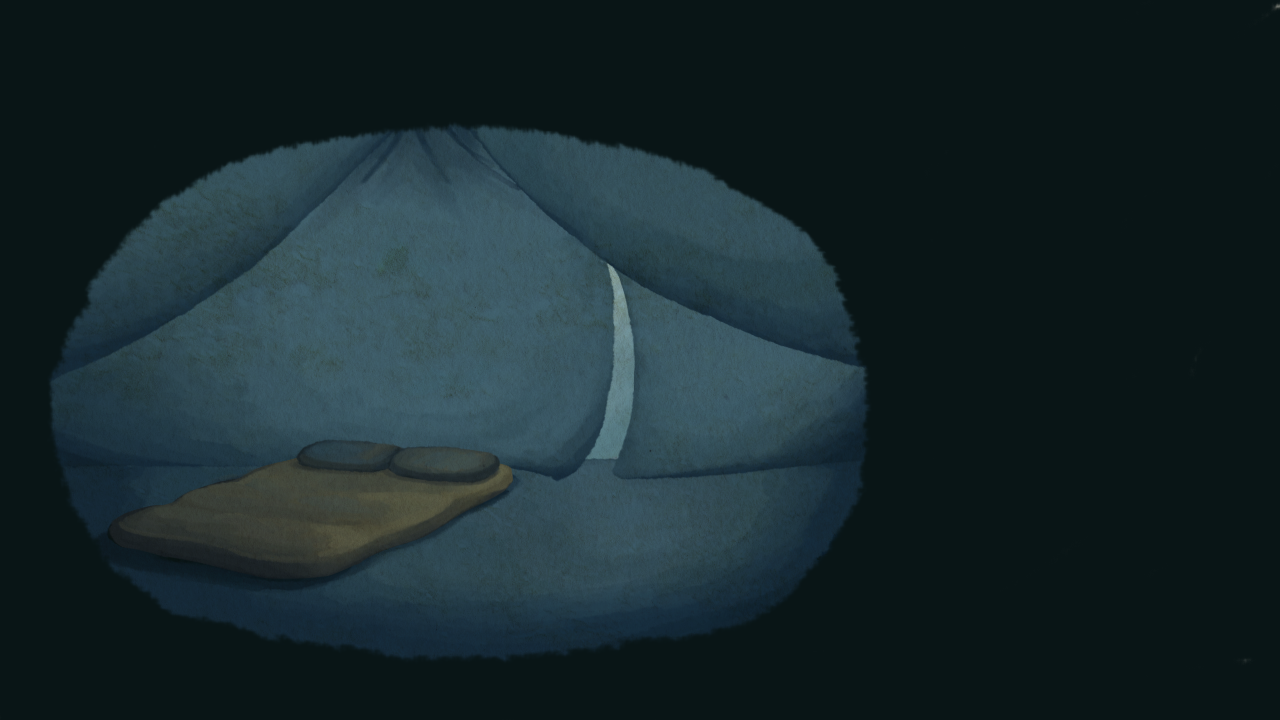
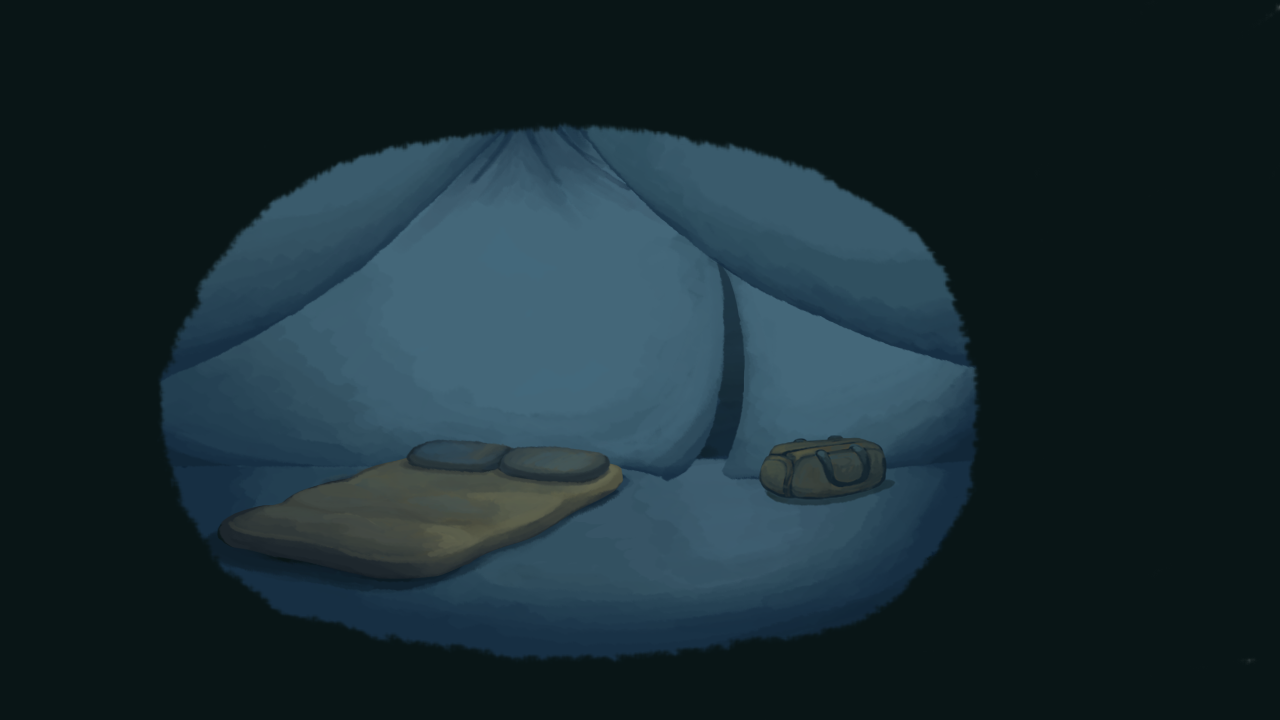
Added new collision and input rects to the tent map

Changed region(s): [[0.0312, 0.1528, 0.7812, 0.9167], [0.3438, 0.5194, 0.375, 0.55]]

diff --git a/src/States/MemoryState.cs b/src/States/MemoryState.cs
@@ -62,6 +62,9 @@ namespace GGJ2013.States
 		public string NextLevel;
 		public string LastLevel;
 
+		public string CurrentItem;
+		public string LastItem;
+
 		protected virtual void OnLevelStart(string LastScreen) { }
 		protected virtual void OnLevelComplete() { }
 
@@ -94,7 +97,9 @@ namespace GGJ2013.States
 			if (G.DebugCollision)
 				DrawDebug();
 
+			G.InventoryManager.Draw(batch);
 			Dialog.Draw(batch);
+
 		}
 
 		public override void Update(GameTime gameTime)
@@ -112,8 +117,19 @@ namespace GGJ2013.States
 			var mouse = Mouse.GetState();
 			var target = new Vector2(mouse.X, mouse.Y);
 
+			if (CollisionChecker.PointToPoly(target, G.InventoryManager.Bounds))
+				G.InventoryManager.IsShown = true;
+			else G.InventoryManager.IsShown = false;
+
+
 			if (mouse.LeftButton.WasButtonPressed(_oldMouse.LeftButton))
 			{
+				if (G.InventoryManager.IsShown)
+				{
+					LastLevel = CurrentItem;
+					CurrentItem = G.InventoryManager.SelectItemAt(target);
+				}
+
 				//TODO: take this out, only for development
 				if (G.Active)
 				{
@@ -121,11 +137,11 @@ namespace GGJ2013.States
 					Trace.WriteLine (String.Format ("({0}, {1})", t.X, t.Y));
 				}
 
-				var myPoly = Nav.Where (node => CollisionChecker.PointToPoly (
-					Player.Location, node.Poly)).FirstOrDefault();
+				var myPoly = Nav.FirstOrDefault(node => CollisionChecker.PointToPoly (
+					Player.Location, node.Poly));
 
-				var targetPoly = Nav.Where (node => CollisionChecker.PointToPoly (
-					Camera.ScreenToWorld (target), node.Poly)).FirstOrDefault();
+				var targetPoly = Nav.FirstOrDefault(node => CollisionChecker.PointToPoly (
+					Camera.ScreenToWorld (target), node.Poly));
 				
 				if (targetPoly != null)
 				{
@@ -154,6 +170,7 @@ namespace GGJ2013.States
 						OnItemFound(item);
 						if (item.CanPickup)
 						{
+							G.InventoryManager.CurrentItems.Add(item.Name);
 							Items.RemoveAt(i);
 						}
 						break;
@@ -214,13 +231,12 @@ namespace GGJ2013.States
 		{
 			G.Debug.Begin (Camera.Transformation);
 			foreach (var item in Items) {
-				G.Debug.Draw (item, Color.Lime);
+				G.Debug.Draw (item, Color.Blue);
 			}
 			foreach (var hotspot in Hotspots) {
 				G.Debug.DrawPolygon (hotspot, Color.Red);
 			}
-			foreach (var polyNode in Nav)
-			{
+			foreach (var polyNode in Nav) {
 				G.Debug.DrawPolygon (polyNode.Poly, Color.Yellow);
 			}
 			G.Debug.Stop();
@@ -235,12 +251,12 @@ namespace GGJ2013.States
 			};
 		}
 
-		protected  GameItem CreateItem (string name, string description, string texturePath,
-			int radius, int x, int y)
+		protected  GameItem CreateItem (string name, string description,
+			string texturePath, int x, int y, params Vector2[] verts)
 		{
 			var item = new GameItem (name, G.C.Load<Texture2D> (texturePath))
 			{
-				CollisionData = new Circlegon (radius),
+				CollisionData = new Polygon (verts),
 				Location = new Vector2 (x, y)
 			};
 			return item;

diff --git a/src/Levels/TentState.cs b/src/Levels/TentState.cs
@@ -51,10 +51,25 @@ namespace GGJ2013
 			};
 			#endregion
 
-			Blanket = CreateItem ("Blanket", "Desc", "TentArea/blanket", 30, 300, 503);
-			Flash = CreateItem ("Flashlight", "Desc", "TentArea/flashlight", 30, 587, 436);
-			Bag = CreateItem ("Bag", "Desc", "TentArea/dufflebag", 30, 723, 444);
-			Sweater = CreateItem("Sweater", "Desc", "TentArea/sweater", 30, 500, 550);
+			Blanket = CreateItem ("Blanket", "A warm blanket", "TentArea/blanket", 300, 503, 				
+				new Vector2 (0, 41),
+				new Vector2 (256, -6),
+				new Vector2 (419, 91),
+				new Vector2 (296, 153));
+
+			Flash = CreateItem ("Flashlight", "A bright flashlight", "TentArea/flashlight", 587, 436,
+				new Vector2 (568 - 587, 493 - 436),
+				new Vector2 (575 - 587, 427 - 436),
+				new Vector2 (630 - 587, 433 - 436),
+				new Vector2 (634 - 587, 484 - 436));
+
+			Sweater = CreateItem("Sweater", "A Sweater", "TentArea/sweater", 500, 550,
+				new Vector2 (426 - 500, 563 - 550),
+				new Vector2 (513 - 500, 551 - 550),
+				new Vector2 (653 - 500, 559 - 550),
+				new Vector2 (639 - 500, 594 - 550),
+				new Vector2 (566 - 500, 615 - 550),
+				new Vector2 (496 - 500, 603 - 550));
 
 			Blanket.OnClick += (t) =>
 			{
@@ -71,20 +86,31 @@ namespace GGJ2013
 			Flash.IsActive = true;
 			Flash.CanPickup = true;
 
+			Bag = new Hotspot (
+				new Polygon (
+					new Vector2 (757, 443),
+					new Vector2 (883, 417),
+					new Vector2 (902, 489),
+					new Vector2 (776, 507),
+					new Vector2 (745, 483)
+					), t =>
+					{
+						// something should happen here?
+					});
 
 			Exit = new Hotspot(
 				new Polygon(
-					new Vector2(600, 250),
-					new Vector2(607, 373),
-					new Vector2(575, 459),
-					new Vector2(650, 468),
-					new Vector2(675, 374),
-					new Vector2(657, 299)), t =>
+					new Vector2 (620 + 90, 250),
+					new Vector2 (607 + 90, 373),
+					new Vector2 (575 + 90, 459),
+					new Vector2 (650 + 90, 468),
+					new Vector2 (675 + 90, 374),
+					new Vector2 (657 + 90, 299)), t =>
 					{
 						if (CanLeaveLevel)
 						{
 							G.StateManager.Pop();
-							G.StateManager.Push(NextLevel);
+							G.StateManager.Push (NextLevel);
 						}
 						else
 						{
@@ -111,7 +137,6 @@ namespace GGJ2013
 			light2.IsVisible = false;
 
 			Items.Add (Flash);
-			Items.Add (Bag);
 			Items.Add (Sweater);
 			Items.Add (Blanket);
 
@@ -120,6 +145,7 @@ namespace GGJ2013
 			Lights.Add(light2);
 
 			Hotspots.Add(Exit);
+			Hotspots.Add(Bag);
 		}
 
 		protected override void OnLevelComplete()
@@ -162,10 +188,10 @@ namespace GGJ2013
 
 		public GameItem Sweater;
 		public GameItem Blanket;
-		public GameItem Bag;
 		public GameItem Flash;
 
-		public Hotspot Exit; 
+		public Hotspot Exit;
+		public Hotspot Bag;
 
 		public bool BlanketClicked;
 		public Vector2 BlanketDestination = new Vector2(103, 450);

diff --git a/src/Interface/InventoryManager.cs b/src/Interface/InventoryManager.cs
@@ -9,11 +9,16 @@ using Microsoft.Xna.Framework.Graphics;
 
 namespace GGJ2013.Interface
 {
-	public class IventoryManager
+	public class InventoryManager
 	{
+		public InventoryManager()
+		{
+			CurrentItems = new List<string>();
+		}
+
 		public List<string> CurrentItems;
 
-		public Rectagon Bounds = new Rectagon(0, 0, G.SCREEN_HEIGHT, 100);
+		public Rectagon Bounds = new Rectagon(10, 5, G.SCREEN_WIDTH, 100);
 		public bool IsShown;
 		public Vector2 SlotPadding = new Vector2(10, 0);
 
@@ -29,31 +34,33 @@ namespace GGJ2013.Interface
 		
 		public void Draw(SpriteBatch batch)
 		{
-			if (!IsShown)
+			if (!IsShown || CurrentItems.Count == 0)
 				return;
 
 			batch.Begin(SpriteSortMode.Deferred, BlendState.NonPremultiplied);
 			var offset = Bounds.Location;
+
+			_itemSlot.X = (int)offset.X;
+			_itemSlot.Y = (int)offset.Y;
 			foreach (var str in CurrentItems)
 			{
 				var item = GameItem.ItemDictionary[str];
-				_itemSlot.X = (int) offset.X;
-				_itemSlot.Y = (int) offset.Y;
+
 				batch.Draw(item.Texture, _itemSlot, Color.White);
-				offset += SlotPadding;
+				_itemSlot.X += (int)SlotPadding.X + _itemSlot.Width;
 			}
 			batch.End();
 
 			offset = Bounds.Location;
 
 			G.Debug.Begin(Matrix.Identity);
+			_itemFrame.Location = offset;
+
 			foreach (var str in CurrentItems)
 			{
-				var item = GameItem.ItemDictionary[str];
-				_itemFrame.Location = offset;
-				G.Debug.DrawPolygon(_itemFrame, Color.Black);
+				G.Debug.DrawPolygon(_itemFrame, Color.Gray);
 
-				offset += SlotPadding;
+				_itemFrame.Location.X += SlotPadding.X + _itemFrame.Width;
 			}
 			
 			G.Debug.Stop();

diff --git a/src/G.cs b/src/G.cs
@@ -4,6 +4,7 @@ using System.Linq;
 using GGJ2013.Collision;
 using GGJ2013.Entities;
 using GGJ2013.Graphics;
+using GGJ2013.Interface;
 using GGJ2013.Items;
 using GGJ2013.States;
 using Jammy;
@@ -34,6 +35,7 @@ namespace GGJ2013
 		public static StateManager StateManager;
 		public static GraphicsDeviceManager Graphics;
 		public static BloomComponent BloomRenderer;
+		public static InventoryManager InventoryManager;
 		public static GameTime GameTime;
 		public static bool DebugCollision = false;
 		public static string LastScreen;	
@@ -64,6 +66,8 @@ namespace GGJ2013
 
 			StateManager.Add (new TentState());
 			StateManager.Set ("Tent");
+
+			InventoryManager = new InventoryManager();
 
 			Activated += (s, a) => Active = true;
 			Deactivated += (s, a) => Active = false;
